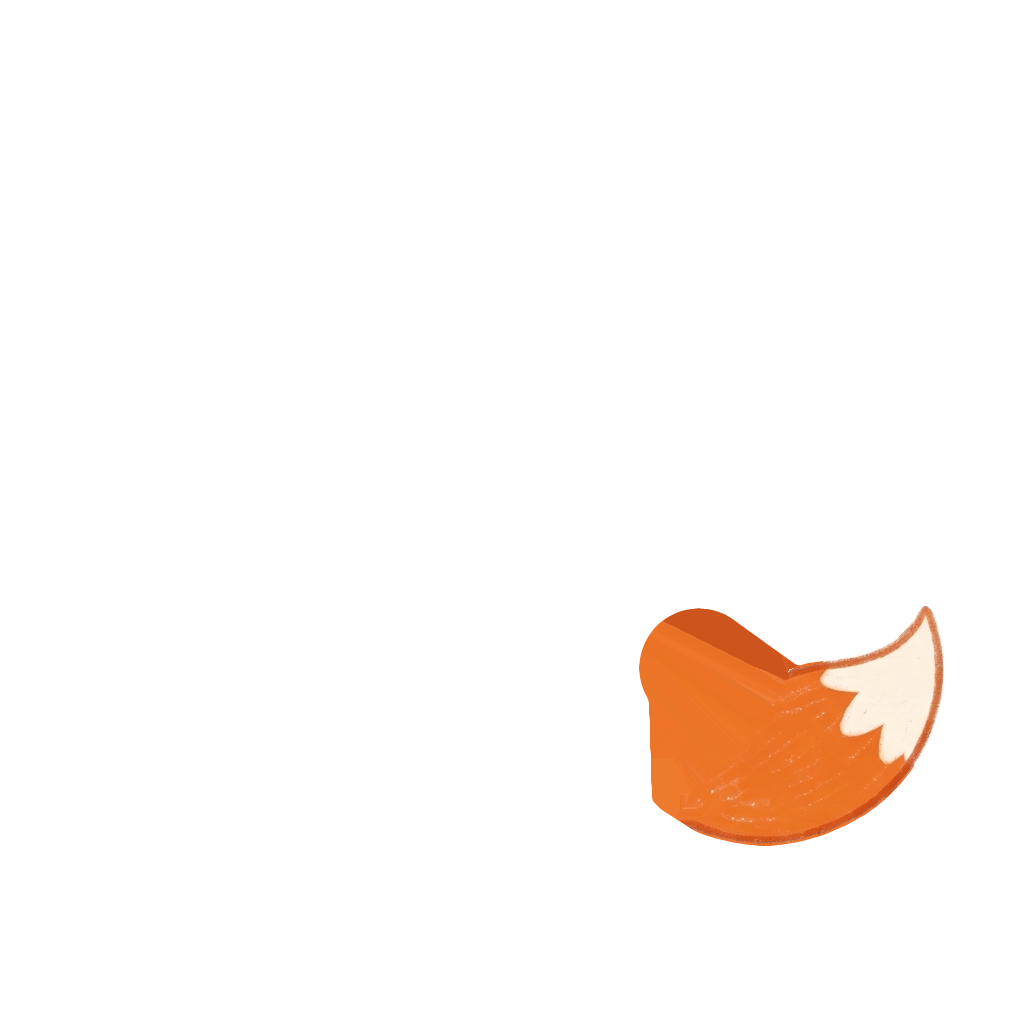
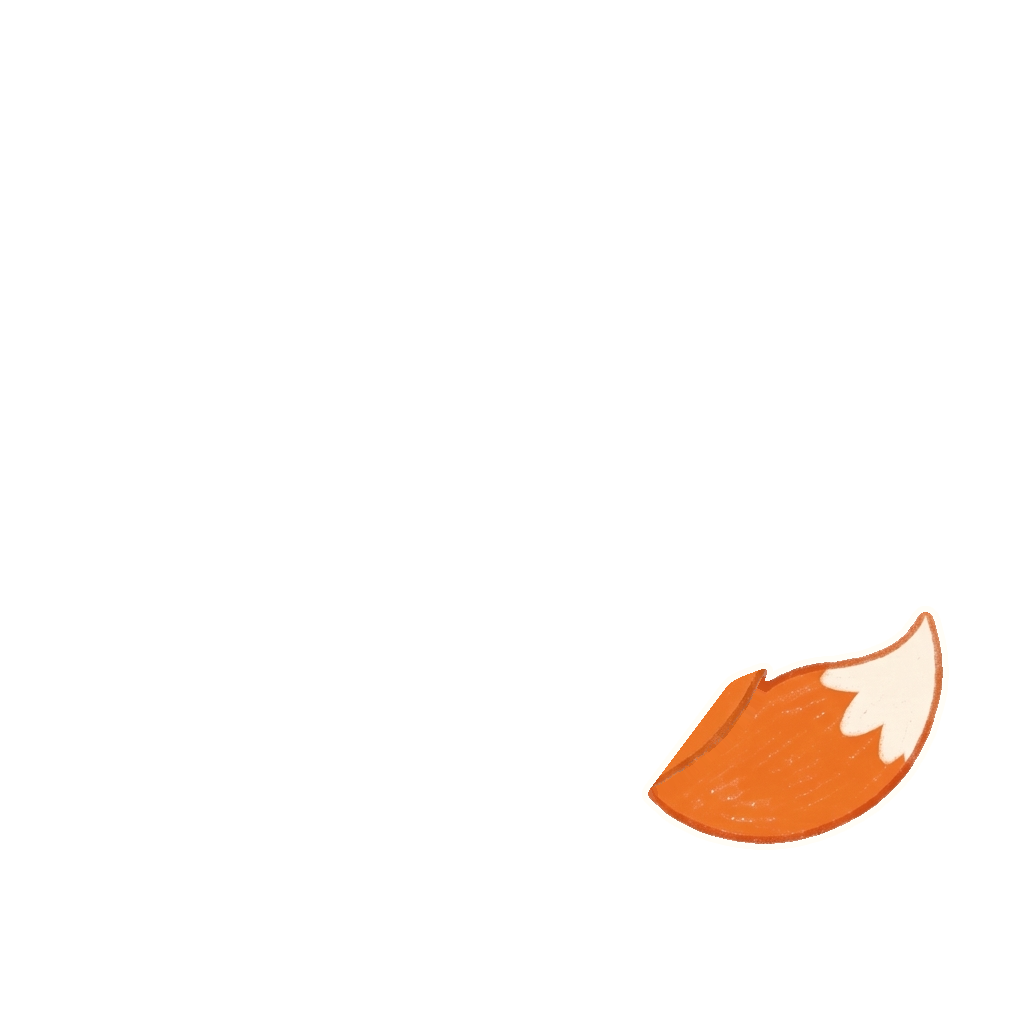
Räven Rut: svansen putsad ur rut-faceless.jpg – jämn överkant utan hack och spets, rund rot in till vridpunkten i kroppens orange krita så inget sticker ut vid viftning eller 40° lyft; förra svansen i aldre/

Changed region(s): [[0.625, 0.5938, 0.7812, 0.8125], [0.875, 0.5938, 0.9062, 0.625]]

diff --git a/assets/karaktarer/raven-rut/premium/skript/rut_svans_putsa.py b/assets/karaktarer/raven-rut/premium/skript/rut_svans_putsa.py
@@ -1,0 +1,39 @@
+# Rävens svans putsad (Sanna 2026-11-28, "polish räven's tail the same way you did the ears"), som rut_oron_putsa.py:
+# den gamla svansen hade ett hack och en liten spets i överkanten mot kroppen och en utsmetad, randig rot.
+# Svansen görs om direkt ur original/rut-faceless.jpg (samma pixlar som riggen): det synliga ovanför/utanför kroppen rakt ur
+# konsten (med den vita spetsen), roten bakom kroppen (in till vridpunkten) i ren orange krita, formen rundad, vit kant runt.
+#   python3 skript/rut_svans_putsa.py [kant px: 6.5 för cut-tunn, 10 för cut] <utmapp>
+import sys, numpy as np
+from PIL import Image, ImageDraw
+from scipy import ndimage as nd
+from scipy.spatial import ConvexHull
+N, ut = float(sys.argv[1]), sys.argv[2]
+rgb = np.asarray(Image.open('original/rut-faceless.jpg').convert('RGB')).astype(float)
+kropp = np.asarray(Image.open('cut-tunn/rut-body-tom.png').convert('RGBA'))[..., 3] > 128
+huvud = nd.binary_erosion(kropp, iterations=7)                       # kroppens fyllning utan vit kant
+sat = rgb.max(2) - rgb.min(2)
+kram = (rgb[..., 0] - rgb[..., 2] > 15) & (rgb.min(2) > 190)          # svansspetsens kräm (inte den vita kanten)
+krita = (sat > 90) | (rgb.sum(2) < 400) | kram
+box = np.zeros_like(krita); box[612:900, 640:980] = True             # under armstumpen
+V = nd.binary_opening(krita & ~huvud & box, iterations=2)
+lab, n = nd.label(V); V = nd.binary_fill_holes(lab == (np.argmax(nd.sum(V, lab, range(1, n + 1))) + 1))
+# roten: höljet av svansen och en rund klump kring vridpunkten (bakom kroppen), rundat
+ys, xs = np.nonzero(V); v = np.linspace(0, 2 * np.pi, 48)
+p = np.r_[np.c_[xs, ys], np.c_[761 + 45 * np.cos(v), 717 + 45 * np.sin(v)]]   # rot in till vridpunkten (761, 717), syns aldrig när svansen lyfts 40°
+h = ConvexHull(p); m = Image.new('L', (1024, 1024), 0)
+ImageDraw.Draw(m).polygon([tuple(map(int, p[v])) for v in h.vertices], fill=255)
+G = (np.asarray(m) > 0) & (V | huvud)                                # utanför kroppen följer formen konsten exakt
+G = nd.gaussian_filter(G.astype(float), 3) > 0.5                     # mjuka hörn
+vit = (rgb.min(2) > 200) & ~kram
+S = V & ~vit & ~nd.binary_dilation(huvud, iterations=8)
+_, (iy, ix) = nd.distance_transform_edt(~S, return_indices=True)
+out = np.zeros((1024, 1024, 4))
+out[..., :3] = rgb[iy, ix]                                           # närmast kroppskanten: närmaste kritfärg
+djup = G & ~S & nd.binary_erosion(huvud, iterations=3)                 # djupt bakom kroppen: kroppens egen orange krita (rut-body-tom, utan mage)
+out[djup, :3] = np.asarray(Image.open('cut-tunn/rut-body-tom.png').convert('RGB')).astype(float)[djup]
+out[S, :3] = rgb[S]
+dOut = nd.distance_transform_edt(~G)
+out[..., 3] = 255 * np.clip(N + 0.5 - dOut, 0, 1); out[G, 3] = 255
+out[~G & (dOut <= N + 0.5), :3] = [255, 253, 246]                    # vit kant
+f = f'{ut}/rut-tail.png'
+Image.fromarray(out.astype(np.uint8)).save(f); print(f, 'källa', int(S.sum()), 'form', int(G.sum()))

diff --git a/karaktarer/raven-rut.md b/karaktarer/raven-rut.md
@@ -41,6 +41,8 @@ body without arms and legs, left arm, right arm, left leg, right leg, left ear, 
 
 > **Öronen putsade (2026-11-28, Sannas "polish räven ears", godkänt "better yes"):** `rut_oron.py`-öronen hade kantiga hörn, en vit glansrand på utsidan, en trubbig spets och inre örat avklippt mot den gamla äggkanten. `premium/skript/rut_oron_putsa.py` gör om dem direkt ur `original/rut-faceless.jpg` (samma pixlar som riggen): det synliga örat ovanför huvudet rakt ur konsten, roten bakom kroppen (70 px längre ner) i ren orange krita ur huvudets mitt, formen rundad, sedan den vita kanten (`cut-tunn/` 6,5 px, `cut/` 10 px). Samma vridpunkter. De förra ligger i `premium/aldre/`. Jämförelse: `premium/rut-oron-fore-efter.jpg`.
 
+> **Svansen putsad (2026-11-28, som öronen, godkänt av Sanna):** den gamla svansen hade ett hack och en liten spets i överkanten mot kroppen och en randig, utsmetad rot. `premium/skript/rut_svans_putsa.py` gör om den ur `original/rut-faceless.jpg`: det synliga rakt ur konsten (med den vita spetsen), roten en rund klump in till vridpunkten (761, 717) i kroppens egen orange krita (`rut-body-tom.png`), så att inget sticker ut när svansen viftar (±11°) eller lyfts (−30°, −40° i poserna). Samma vridpunkt, samma vita kant. Den förra i `premium/aldre/`. Jämförelse (överst förut, vid 0°, viftning och 40°): `premium/rut-svans-fore-efter.jpg`.
+
 > **Tunna kanter (2026-11-25, inför 055):** `premium/cut-tunn/` ur `verktyg/rigg_tunn.py` (kanten 1 % av kroppens höjd: 10 px → 6,5 px), och `uttryck.html` pekar dit. Bilderna i `cut/` är orörda. `rut-kropp-mask.png` och sovbilden används fortfarande ur `cut/`, eftersom sovbilden redan har sin kant från tunn_kant.py.
 
 ## Prompt
